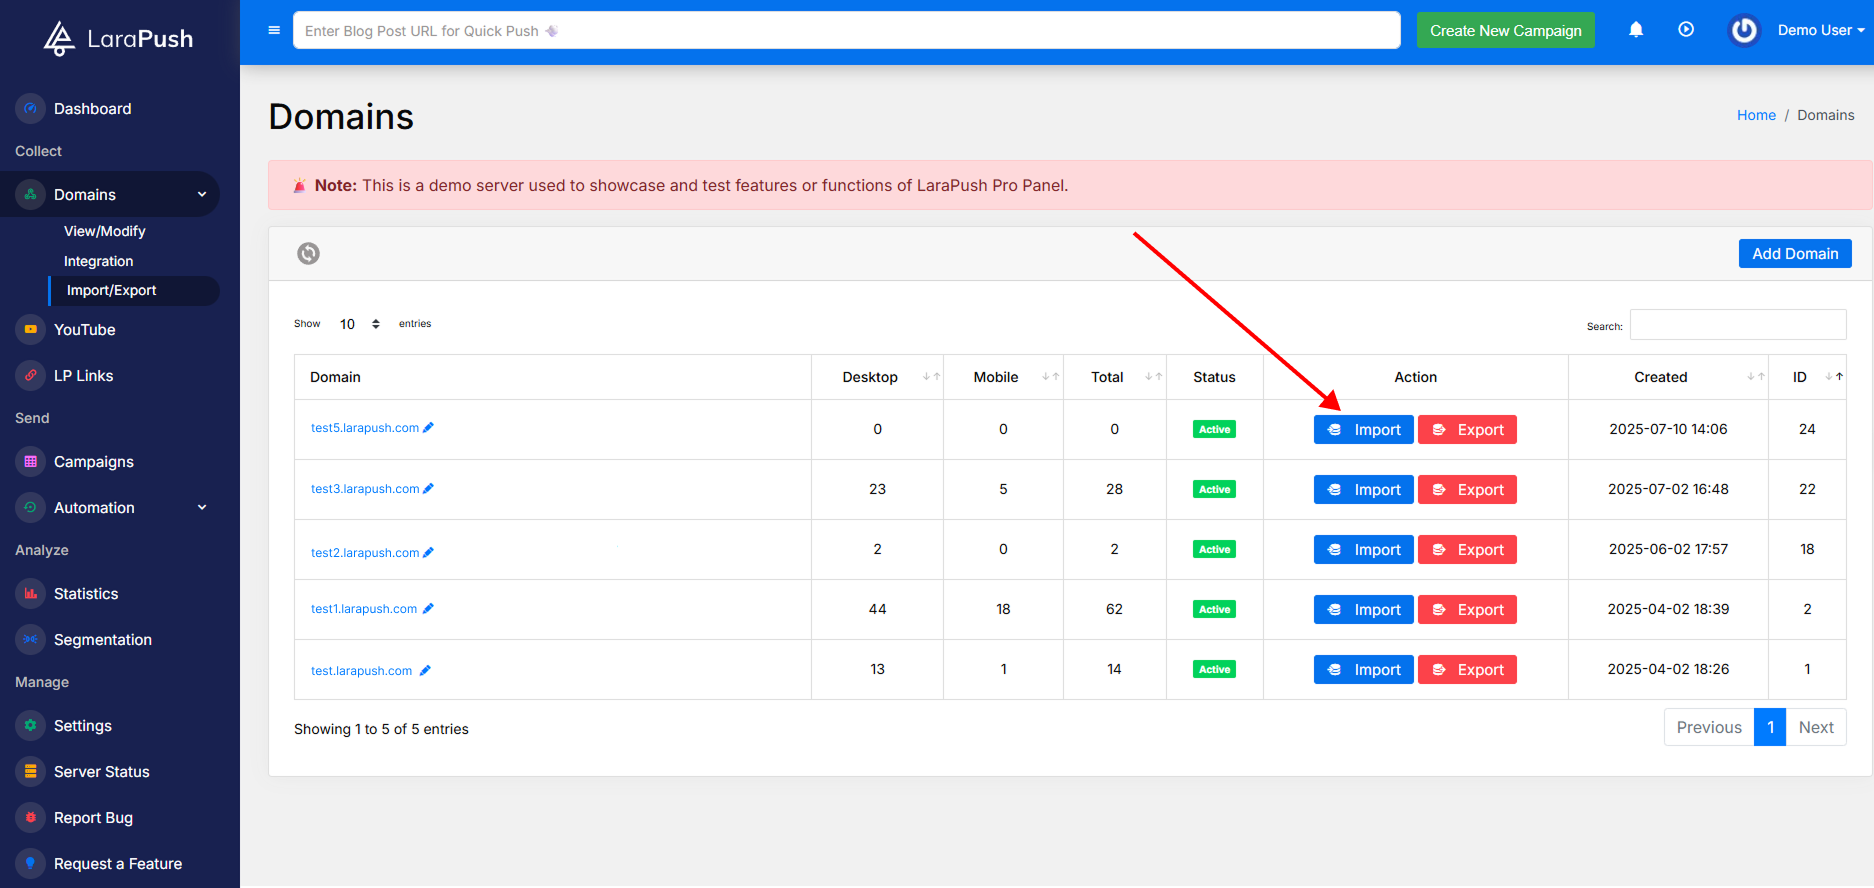
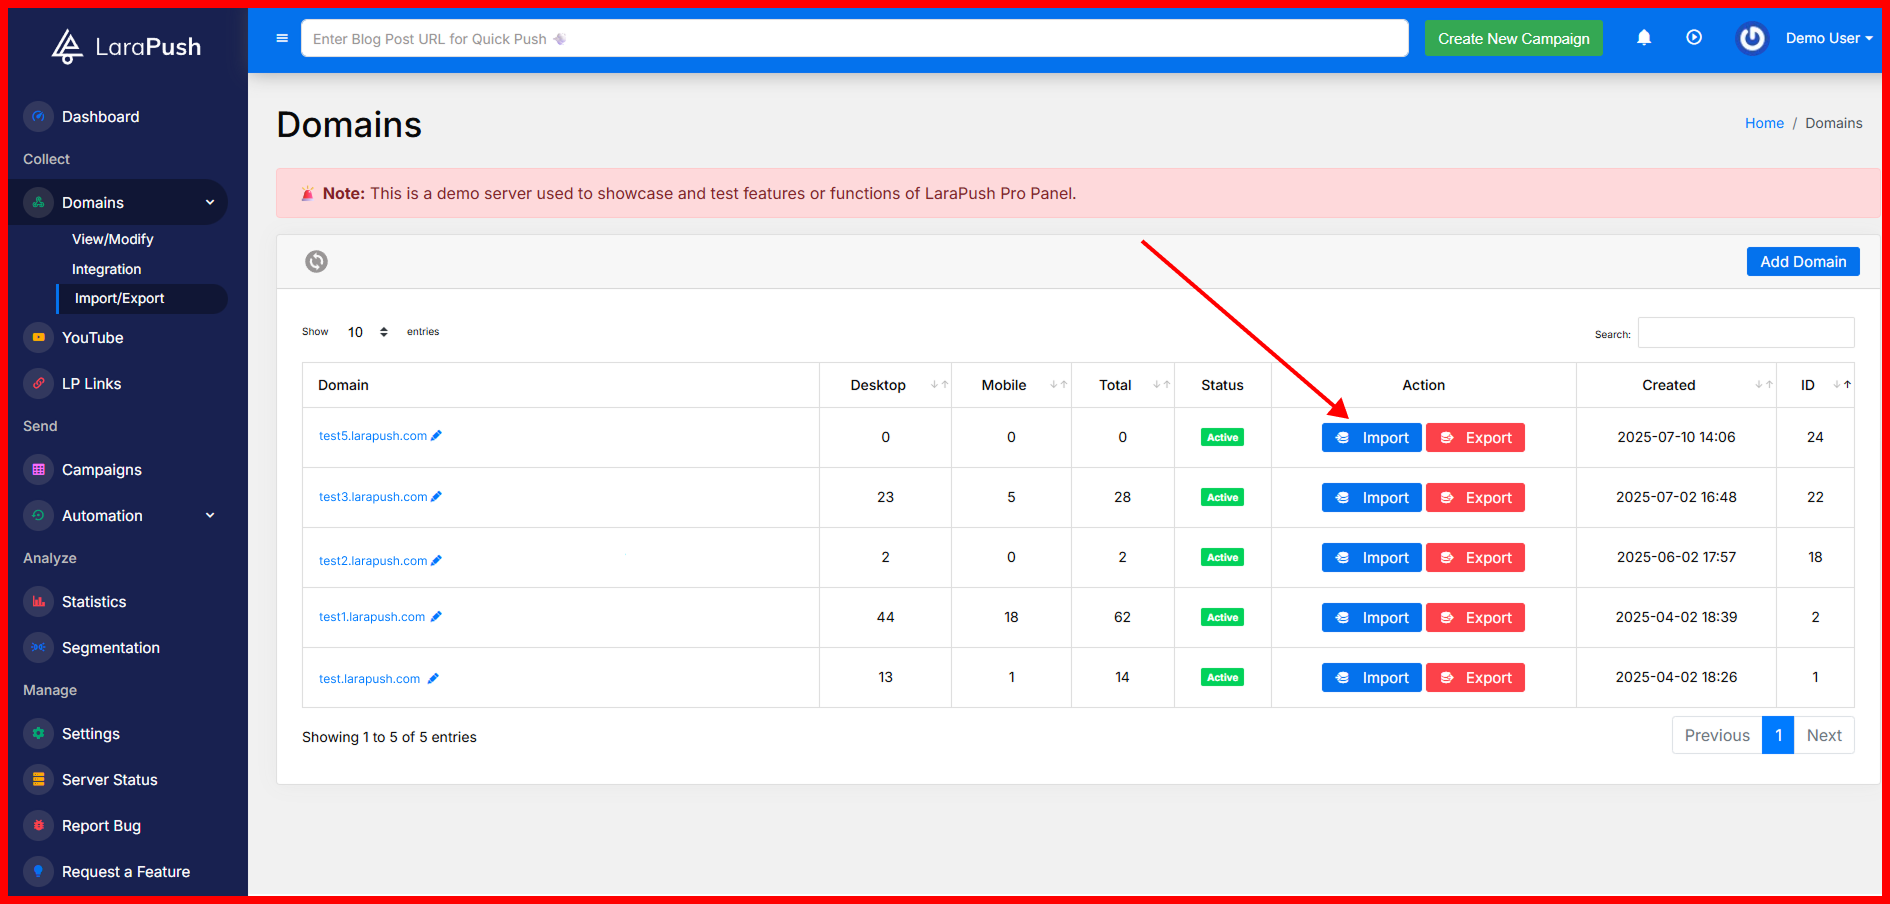
Improve some changes

diff --git a/docs/features/import-export.md b/docs/features/import-export.md
@@ -6,22 +6,25 @@ sidebar_position: 15
 
 The **Import & Export** feature in LaraPush allows you to import and export subscribers data to or from your LaraPush Server. This can be particularly useful for backing up your data, transferring data between different systems.
 
-### Before importing/exporting, 
+### Before importing/exporting,
+
 You must copy the **Firebase configuration** from source panel and create the same domain manually on the destination panel using the same domain name.
+
+:::info
+
+Images with a blue border represent the **Source panel**, and images with a red border represent the **Destination panel**.
+
+:::
 
 1. Go to the **Domains > View/Modify** tab.
 2. Click on the domain from which you want to export subscribers (source panel).
 
-![Source Domain](/img/source-domain.png)
-3. Click the Unhide button to reveal the Firebase configuration, you will be prompted to enter your license key.
+![Source Domain](/img/source-domain.png) 3. Click the Unhide button to reveal the Firebase configuration, you will be prompted to enter your license key.
 
-![Source Domain](/img/license-key.png)
-4. After successful validation, copy the entire Firebase configuration from the **"Paste Firebase Code Here for Shortcut"** section.
+![Source Domain](/img/license-key.png) 4. After successful validation, copy the entire Firebase configuration from the **"Paste Firebase Code Here for Shortcut"** section.
 
-![Source Domain](/img/copy-firebase-code.png)
-5. Navigate to the panel where you want to import (migrate) the subscribers (destination panel) and click **"Add Domain"**.  
+![Source Domain](/img/copy-firebase-code.png) 5. Navigate to the panel where you want to import (migrate) the subscribers (destination panel) and click **"Add Domain"**.  
 6. Scroll to the bottom and paste the copied Firebase configuration in the **"Paste Firebase Code Here for Shortcut"** field. Ensure that, the domain name is the same as the source panel domain and click **Save**.
-
 
 ![Destination Domain](/img/paste-firebase-code.png)
 

diff --git a/docs/getting-started/Integration/wordpress-plugin.md b/docs/getting-started/Integration/wordpress-plugin.md
@@ -10,4 +10,4 @@ Our [WordPress plugin](https://wordpress.org/plugins/push-notifications-by-larap
 
 Furthermore, you can integrate your domain with our WordPress plugin. This is a straightforward process, and to help you understand it better, we have prepared a video tutorial. We strongly recommend watching this video as it provides detailed, step-by-step instructions that will guide you through the integration process. This way, you can ensure that you're utilizing the full capabilities of our WordPress plugin.
 
-![wordpressplugin](/img/wordpress-setup.png)
+![wordpressplugin](/img/wordpress-integrate.png)
